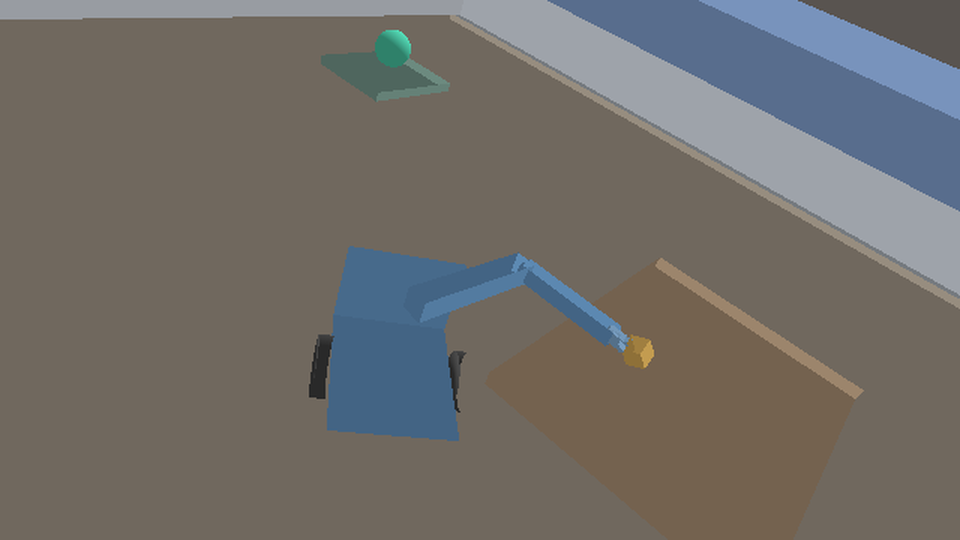
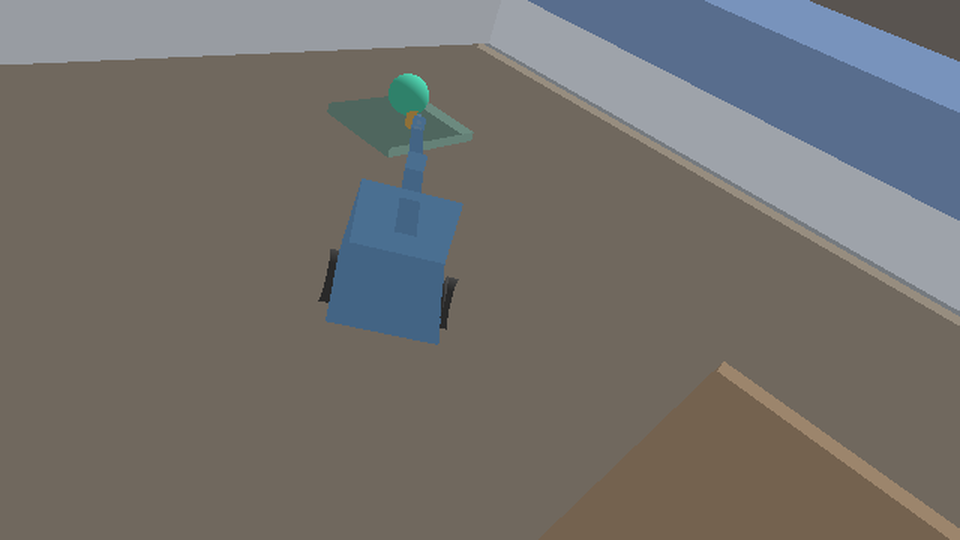
fix(rne_ai): damp mm_mobile arm servo sway with a stiff uncommanded hold
Base motion alone (a yaw turn, or a driving turn like the hero pick
approach) back-drove the mobile arm's uncommanded shoulder/elbow position
hold by up to ~0.30 rad: the base's yaw acceleration couples the outboard
arm chain's full inertia into the joints, and the shared 400/60 spring
constants (tuned for command tracking) are far too soft to resist it, so
the swinging arm bulldozed tabletop objects during driving approaches.

- mm_mobile's shoulder/elbow now switch to a near-critically-damped
  4000/127 position hold while a joint has no velocity command
  (`arm_motor_constants`); commanded moves, and the fixed-base robots
  (mm_minimal, mm_lift), keep the original 400/60 tracking dynamics they
  were tuned against, so no other trajectory changes. 8000 was measured
  WORSE (saturates the 200 max-force cap and rings against it).
- New regression test `mobile_base_motion_barely_back_drives_held_arm`
  bounds the held-arm back-drive under a pure yaw turn and a driving turn
  at 0.08 rad (measured ~0.034 rad, >2x headroom; baseline was ~0.30).
- Hero example: the approach used to park 0.18 m out and rely on the arm
  sway to sweep the gripper across the finger pocket; with the sway damped
  it now creeps to true pocket depth (HERO_APPROACH_HOLD_DISTANCE_M
  0.18 -> 0.07), grasping at step ~311 instead of ~609. Pre-grasp cube
  displacement drops 0.181 m -> 0.064 m and its regression bound tightens
  0.20 -> 0.13 (2x headroom); REACH_TARGET_M re-measured honestly to the
[…]

diff --git a/examples/32_lift_pick_place_hero/main.rs b/examples/32_lift_pick_place_hero/main.rs
@@ -58,7 +58,7 @@ const MIN_BASE_TRAVEL_M: f64 = 0.20;
 const MIN_EE_TRAVEL_M: f64 = 0.15;
 /// Kept at or under 0.05 m: `xtask hero-media-check` rejects a looser
 /// threshold outright (an anti-threshold-creep meta-guard). The deterministic
-/// rollout measures 0.010 m against [`REACH_TARGET_M`], so this has 5x
+/// rollout measures 0.002 m against [`REACH_TARGET_M`], so this has ample
 /// headroom; a trajectory change that shifts the endpoint should re-measure
 /// `REACH_TARGET_M` rather than loosen this bound.
 const MAX_FINAL_EE_TARGET_ERROR_M: f64 = 0.05;
@@ -109,12 +109,14 @@ const MIN_GRASPED_STEPS: usize = 12;
 /// this rewrite fixes: the cube used to fly ~1.5 m through the air into the
 /// gripper because it was a render-only keyframe, not a physics body. Now that
 /// it is a real dynamic obstacle, it must not move at all until the two-finger
-/// weld actually grasps it — except for small jostles from the same arm sway
-/// noted above (an early, non-simultaneous finger contact can nudge the cube
-/// a few centimeters across the — deliberately oversized, see
-/// `hero_pick_table`'s scene comment — pick table before the two-finger gate
-/// catches a clean grasp); this is a real contact nudge, not a teleport.
-const MAX_PRE_GRASP_OBJECT_DISPLACEMENT_M: f64 = 0.20;
+/// weld actually grasps it — except for the small real contact nudge of the
+/// closing fingers seating the cube into the pocket during the final creep
+/// (measured 0.064 m on the deterministic rollout; this bound keeps ~2x
+/// headroom). Before the mobile arm's stiff uncommanded position hold (see
+/// `MOBILE_ARM_HOLD_STIFFNESS` in `rne_ai::env::mobile_manipulator::sim`)
+/// the servo sway swept a single finger across the cube during the approach
+/// and shoved it up to 0.181 m; do not loosen this bound back toward that.
+const MAX_PRE_GRASP_OBJECT_DISPLACEMENT_M: f64 = 0.13;
 /// Maximum horizontal distance the task cube slides after release (m).
 /// Regression guard for the other half of the same bug: on release the old
 /// keyframed cube snapped/slid ~0.74 m back to the place target. A dropped
@@ -187,35 +189,37 @@ struct HeroSampleSegment {
 }
 
 // Dense sampling windows are sized from `--trace` output: the two-finger
-// grasp fires at policy step ~609, the observation-gated release fires at
-// ~1698 (the cube drops onto the tray and is fully settled by ~1850), and
-// `POLICY_STEPS` includes fallback budget past that (see
-// `HERO_CARRY_STEPS`).
+// grasp fires at policy step ~311 (the pocket-depth approach reaches the
+// cube much earlier now that the sway-damped arm no longer needs a long
+// hold-and-wait — see `HERO_APPROACH_HOLD_DISTANCE_M`), the
+// observation-gated release fires at ~1290 (the cube drops onto the tray
+// and is fully settled by ~1450), and `POLICY_STEPS` includes fallback
+// budget past that (see `HERO_CARRY_STEPS`).
 const HERO_SAMPLE_SEGMENTS: [HeroSampleSegment; 5] = [
     HeroSampleSegment {
         step_start: 0,
-        step_end: 500,
-        frame_count: 10,
+        step_end: 200,
+        frame_count: 6,
     },
     HeroSampleSegment {
-        step_start: 500,
-        step_end: 800,
+        step_start: 200,
+        step_end: 500,
         frame_count: 18,
     },
     HeroSampleSegment {
-        step_start: 800,
-        step_end: 1600,
+        step_start: 500,
+        step_end: 1150,
+        frame_count: 24,
+    },
+    HeroSampleSegment {
+        step_start: 1150,
+        step_end: 1500,
         frame_count: 26,
     },
     HeroSampleSegment {
-        step_start: 1600,
-        step_end: 1900,
-        frame_count: 26,
-    },
-    HeroSampleSegment {
-        step_start: 1900,
+        step_start: 1500,
         step_end: POLICY_STEPS,
-        frame_count: 20,
+        frame_count: 26,
     },
 ];
 
@@ -973,29 +977,30 @@ fn mix_digest_u64(digest: &mut u64, value: u64) {
 /// end-effector pose (from `--smoke` output) rather than [`PLACE_TARGET_M`]
 /// itself: the end-effector (the elbow pivot, not the gripper) never sits
 /// exactly at the place target even in a perfect run, and — per the note
-/// on [`MAX_FINAL_OBJECT_PLACE_ERROR_M`] — the arm's own sway means the
-/// exact final pose is this rollout's, not a value chosen in advance.
-const REACH_TARGET_M: Vec3 = Vec3::new(2.21, 0.40, -1.93);
+/// on [`MAX_FINAL_OBJECT_PLACE_ERROR_M`] — the exact final pose is this
+/// rollout's, not a value chosen in advance. Re-measured after the mobile
+/// arm's stiff uncommanded position hold (see `MOBILE_ARM_HOLD_STIFFNESS` in
+/// `rne_ai::env::mobile_manipulator::sim`) and the pocket-depth approach
+/// (see [`HERO_APPROACH_HOLD_DISTANCE_M`]) shifted the endpoint by ~0.05 m.
+const REACH_TARGET_M: Vec3 = Vec3::new(2.181, 0.400, -1.889);
 
-// Note on a real dynamics quirk this policy works around in several places
-// (see `HERO_APPROACH_HOLD_DISTANCE_M` and
-// `HERO_CARRY_STANDOFF_ARRIVAL_TOLERANCE_M`): the arm's shoulder/elbow
-// are held by a position spring/damper motor (see
-// `configure_arm_position_motors` in `rne_ai::env::mobile_manipulator::sim`)
-// that is never actuated by this policy, yet tracing a long straight-line
-// base approach at constant speed showed the actual joint angles swinging
-// by several tenths of a radian in a slow, non-decaying sway — present from
-// the very first driven step, i.e. excited by the base's own kinematic
-// motion rather than by turning or contact. Projected through the ~0.9 m
-// arm reach, that sway moves the gripper (and, once welded, the carried
-// object) by far more than the ~0.08 m finger pocket or the release
-// tolerance. An outer proportional velocity correction feeding the
-// shoulder/elbow back toward zero was tried and made the sway WORSE (it
-// interacts badly with the existing spring dynamics rather than damping
-// them), so instead of fighting the sway, both the approach and the carry
-// stop actively steering once close and let the sway itself carry the
-// gripper/object through the relevant contact or release gate — many
-// chances across sway cycles instead of one precise pass.
+// Note on a real dynamics quirk this policy HISTORICALLY worked around in
+// several places (see `HERO_APPROACH_HOLD_DISTANCE_M` and
+// `HERO_CARRY_STANDOFF_ARRIVAL_TOLERANCE_M`): the arm's shoulder/elbow are
+// held by a position spring/damper motor (see `configure_arm_position_motors`
+// in `rne_ai::env::mobile_manipulator::sim`) that is never actuated by this
+// policy, and at the old shared 400/60 spring constants the base's own motion
+// back-drove the held joints by several tenths of a radian in a slow,
+// non-decaying sway. Projected through the ~0.9 m arm reach, that sway moved
+// the gripper (and, once welded, the carried object) by far more than the
+// ~0.08 m finger pocket or the release tolerance, so the approach and carry
+// were built to stop steering early and let the sway itself carry the
+// gripper/object through the relevant gate. The sway is now damped at its
+// source — the mobile arm switches to a much stiffer position hold while
+// uncommanded (see `MOBILE_ARM_HOLD_STIFFNESS`), holding the joints to ~0.03
+// rad under the same maneuvers — so the approach drives to true pocket depth
+// (the firm gripper no longer sweeps across the cube) while the carry keeps
+// its stop-and-settle structure, which remains correct with a steadier arm.
 
 /// Base forward speed cap while approaching the pick object (m/s).
 const HERO_APPROACH_SPEED_M_S: f64 = 0.15;
@@ -1014,21 +1019,21 @@ const HERO_CLOSE_GRIPPER_DISTANCE_M: f64 = 0.12;
 /// Gripper-mount-to-object distance (m) below which the approach stops
 /// driving the base forward and just holds position while the fingers close.
 ///
-/// Wider than [`HERO_CLOSE_GRIPPER_DISTANCE_M`] on purpose: the arm's
-/// position-held shoulder/elbow servo does not sit perfectly still even with
-/// zero commanded velocity and a stationary base — it rings slowly (an
-/// underdamped several-tenths-of-a-radian sway measured while tracing a long
-/// straight-line approach at constant speed, present from the very first
-/// driven step, i.e. excited by the base's own kinematic translation, not by
-/// any rotation or contact event). That sway is large enough, relative to
-/// the ~0.08 m finger pocket, that a single fly-by pass through the object's
-/// position is a coin flip for whether both fingers happen to be
-/// symmetrically placed at that instant. Stopping the base with the gripper
-/// merely NEAR (not already touching) the object, then holding there for the
-/// rest of the approach budget, lets that same sway carry the gripper back
-/// and forth across the object's position many times while the fingers
-/// continuously re-attempt closing — many chances instead of one.
-const HERO_APPROACH_HOLD_DISTANCE_M: f64 = 0.18;
+/// Narrower than [`HERO_CLOSE_GRIPPER_DISTANCE_M`]: the mount box's half-depth
+/// (0.03 m) plus the 0.07 m cube's half-width is ~0.065 m, so holding at 0.07
+/// parks the cube fully inside the finger pocket with its near face at the
+/// mount, and the fingers (already closing since the 0.12 m gate) finish the
+/// two-sided pinch against a stationary target. This USED to be 0.18 m — the
+/// uncommanded shoulder/elbow servo swayed by several tenths of a radian under
+/// the base's own motion, so the approach parked the gripper NEAR the cube and
+/// let the sway sweep it back and forth across the pocket, taking many chances
+/// at a symmetric two-finger close instead of one. Now that the mobile arm's
+/// position hold is stiff while uncommanded (see `MOBILE_ARM_HOLD_STIFFNESS`
+/// in `rne_ai::env::mobile_manipulator::sim`), the gripper genuinely stays put
+/// (±0.02 rad traced over the whole approach), so parking 0.18 m out means the
+/// fingers never reach the cube at all; the firm arm makes the straight
+/// nose-on creep to pocket depth deterministic instead of a bulldozing risk.
+const HERO_APPROACH_HOLD_DISTANCE_M: f64 = 0.07;
 /// Parallel-gripper opening metric at rest; once closing has started (metric
 /// below this), keep issuing close even if a contact transient nudges the
 /// mount-to-object distance back above [`HERO_CLOSE_GRIPPER_DISTANCE_M`].

diff --git a/crates/rne_ai/src/env/mobile_manipulator/sim.rs b/crates/rne_ai/src/env/mobile_manipulator/sim.rs
@@ -311,12 +311,34 @@ const LIFT_TARGET_MAX_M: f64 = 0.5;
 /// Constraint solver iterations for the lift robot's world. Its tall jointed chain
 /// swings chaotically at Rapier's default (4); 16 holds the arm stable.
 const LIFT_SOLVER_ITERATIONS: usize = 16;
-/// Position stiffness/damping for the lift robot's arm revolute joints. A plain
+/// Position stiffness/damping for the arm revolute joints while a velocity command
+/// is integrating (all robots), and at all times on the fixed-base robots. A plain
 /// velocity motor (gain 1.0) is too weak to move or hold the heavy arm, so the arm
 /// joints are position (spring-damper) motors that drive to a commanded angle and
-/// hold it. Stable now that the column geometry settles the arm straight.
+/// hold it. Stable now that the column geometry settles the arm straight. On the
+/// mobile robot an UNCOMMANDED joint switches to the much stiffer
+/// [`MOBILE_ARM_HOLD_STIFFNESS`] hold instead (see `arm_motor_constants`).
 const ARM_MOTOR_STIFFNESS: f64 = 400.0;
 const ARM_MOTOR_DAMPING: f64 = 60.0;
+/// Extra-stiff position hold for the MOBILE robot's shoulder/elbow while a joint
+/// has no velocity command (`mm_mobile` only; see `arm_hold_motor_constants`).
+/// At the tracking stiffness of 400 a base yaw turn back-drives the held arm by
+/// up to ~0.30 rad (measured by `mobile_base_motion_barely_back_drives_held_arm`):
+/// like the fingers (see [`FINGER_MOTOR_STIFFNESS`]), the motor spring's torque
+/// scales with the joint's effective angular inertia, and the base's yaw
+/// acceleration couples the full inertia of the outboard arm chain into the
+/// joint, so 400 in acceleration units is far too soft to resist it — the
+/// swinging arm bulldozed tabletop objects during driving approaches. 4000
+/// holds the same disturbance to under 0.04 rad; pushing further (8000) makes
+/// the sway WORSE because the restoring torque saturates the
+/// [`ARM_MOTOR_MAX_FORCE`] cap and the overdriven spring rings against it.
+/// Applied only at zero command so every velocity-commanded trajectory (and
+/// every fixed-base robot, which has no base motion to back-drive its arm)
+/// keeps the original 400/60 tracking dynamics it was tuned against.
+const MOBILE_ARM_HOLD_STIFFNESS: f64 = 4000.0;
+/// Damping for [`MOBILE_ARM_HOLD_STIFFNESS`] (≈ critical in acceleration
+/// units: 2·√4000 ≈ 126).
+const MOBILE_ARM_HOLD_DAMPING: f64 = 127.0;
 /// Extra stiffness when writing absolute lift-arm joint targets (direct IK hold).
 const ARM_DIRECT_TARGET_STIFFNESS: f64 = 1200.0;
 const ARM_DIRECT_TARGET_DAMPING: f64 = 100.0;
@@ -1493,8 +1515,9 @@ impl MobileManipulatorSim {
                     let is_finger =
                         joint_name == "left_finger_joint" || joint_name == "right_finger_joint";
                     if !is_finger {
-                        motor.stiffness = ARM_MOTOR_STIFFNESS;
-                        motor.gain = ARM_MOTOR_DAMPING;
+                        let (stiffness, damping) = arm_motor_constants(self.mobile_base, velocity);
+                        motor.stiffness = stiffness;
+                        motor.gain = damping;
                     }
                     let mut target = (motor.target_position + velocity * dt_s)
                         .clamp(-ARM_TARGET_LIMIT_RAD, ARM_TARGET_LIMIT_RAD);
@@ -1671,8 +1694,11 @@ impl MobileManipulatorSim {
             let Some(mut motor) = self.world.get_mut::<rne_physics::JointMotor>(joint.link) else {
                 continue;
             };
-            motor.stiffness = ARM_MOTOR_STIFFNESS;
-            motor.gain = ARM_MOTOR_DAMPING;
+            // Initial state is an uncommanded hold; `apply_action` re-selects the
+            // constants every step from the live per-joint command.
+            let (stiffness, damping) = arm_motor_constants(self.mobile_base, 0.0);
+            motor.stiffness = stiffness;
+            motor.gain = damping;
             motor.target_position = 0.0;
             motor.max_force = ARM_MOTOR_MAX_FORCE;
         }
@@ -1857,6 +1883,20 @@ fn joint_sample(world: &World, joint: &ActuatedJoint) -> JointSample {
 
 fn z_rotation_rad(rotation: Quat) -> f64 {
     2.0 * f64::atan2(rotation.z, rotation.w)
+}
+
+/// Selects the position-motor spring constants for a shoulder/elbow joint from the
+/// robot kind and the joint's current velocity command: the mobile robot's arm gets
+/// the extra-stiff [`MOBILE_ARM_HOLD_STIFFNESS`] hold while uncommanded (so base
+/// motion cannot back-drive the held pose — see that constant's doc comment), and
+/// every commanded move (and every fixed-base robot, whose arm nothing back-drives)
+/// keeps the original [`ARM_MOTOR_STIFFNESS`] tracking dynamics.
+fn arm_motor_constants(mobile_base: bool, velocity_command: f64) -> (f64, f64) {
+    if mobile_base && velocity_command == 0.0 {
+        (MOBILE_ARM_HOLD_STIFFNESS, MOBILE_ARM_HOLD_DAMPING)
+    } else {
+        (ARM_MOTOR_STIFFNESS, ARM_MOTOR_DAMPING)
+    }
 }
 
 /// Cubic ease-in/ease-out over `[0, 1]`, clamped at the ends. Used to animate the
@@ -2243,6 +2283,73 @@ mod tests {
         assert!(
             yaw_end > yaw_start + 0.2,
             "positive twist yaw rate increases observed base yaw in sim, start={yaw_start:.3} end={yaw_end:.3}"
+        );
+    }
+
+    /// Runs `steps` ticks of the given base-only action (zero arm command) on a
+    /// settled `mm_mobile` and returns the largest deviation of the shoulder or
+    /// elbow joint from its settled hold angle (rad).
+    fn held_arm_max_deviation_rad(
+        action_for_step: impl Fn(u64) -> MobileManipulatorAction,
+        steps: u64,
+    ) -> f64 {
+        let mut sim = MobileManipulatorSim::new_mm_mobile();
+        for _ in 0..80 {
+            sim.step(MobileManipulatorAction::default());
+        }
+        let settled = sim.observe();
+        let mut max_deviation_rad = 0.0_f64;
+        for step in 0..steps {
+            let obs = sim.step(action_for_step(step));
+            max_deviation_rad = max_deviation_rad
+                .max((obs.shoulder_position_rad - settled.shoulder_position_rad).abs())
+                .max((obs.elbow_position_rad - settled.elbow_position_rad).abs());
+        }
+        max_deviation_rad
+    }
+
+    /// Guards the mobile arm's stiff position hold (see
+    /// [`MOBILE_ARM_HOLD_STIFFNESS`]): base motion alone must not back-drive the
+    /// uncommanded shoulder/elbow. At the old shared 400/60 spring constants a
+    /// pure yaw turn back-drove the held joints by up to ~0.30 rad (and a
+    /// driving turn by ~0.15 rad), and the swinging arm bulldozed tabletop
+    /// objects during approaches (see example 32's
+    /// `MAX_PRE_GRASP_OBJECT_DISPLACEMENT_M`). The stiff hold measures ~0.034
+    /// rad on both maneuvers; 0.08 leaves >2x headroom without letting the old
+    /// failure mode anywhere near back in.
+    #[test]
+    fn mobile_base_motion_barely_back_drives_held_arm() {
+        const MAX_HELD_ARM_DEVIATION_RAD: f64 = 0.08;
+
+        // Pure in-place yaw turn.
+        let pure_yaw_deviation_rad = held_arm_max_deviation_rad(
+            |_| MobileManipulatorAction {
+                left_wheel_velocity_rad_s: -1.0,
+                right_wheel_velocity_rad_s: 1.0,
+                ..MobileManipulatorAction::default()
+            },
+            240,
+        );
+        assert!(
+            pure_yaw_deviation_rad < MAX_HELD_ARM_DEVIATION_RAD,
+            "base yaw turn back-drove the held arm: max deviation {pure_yaw_deviation_rad:.3} rad"
+        );
+
+        // Forward drive with a sustained turn, like the hero pick approach.
+        let drive_turn_deviation_rad = held_arm_max_deviation_rad(
+            |_| {
+                let (left, right) = crate::mm_mobile_twist_to_wheel_velocities(0.4, 0.6);
+                MobileManipulatorAction {
+                    left_wheel_velocity_rad_s: left.clamp(-3.0, 3.0),
+                    right_wheel_velocity_rad_s: right.clamp(-3.0, 3.0),
+                    ..MobileManipulatorAction::default()
+                }
+            },
+            240,
+        );
+        assert!(
+            drive_turn_deviation_rad < MAX_HELD_ARM_DEVIATION_RAD,
+            "driving turn back-drove the held arm: max deviation {drive_turn_deviation_rad:.3} rad"
         );
     }
 

diff --git a/CHANGELOG.md b/CHANGELOG.md
@@ -6,6 +6,18 @@ All notable changes to Robot Native Engine are documented in this file.
 
 ### Fixed
 
+- **`mm_mobile` arm servo sway**: base motion alone (a yaw turn, or a driving
+  turn like the hero pick approach) back-drove the uncommanded shoulder/elbow
+  position hold by up to ~0.30 rad — the base's yaw acceleration couples the
+  outboard arm chain's full inertia into the joints, and the shared 400/60
+  spring constants (tuned for command tracking) are far too soft to resist it,
+  so the swinging arm bulldozed tabletop objects during driving approaches.
+  The mobile robot's shoulder/elbow now switch to a near-critically-damped
+  4000/127 position hold while uncommanded (velocity-commanded moves, and the
+  fixed-base robots, keep the original tracking dynamics), cutting the
+  back-drive to ~0.034 rad. The hero rollout's pre-grasp cube nudge and its
+  regression bound tighten accordingly.
+
 - **README hero capture**: the hero GIF's task cube was a render-only decoration
   keyframe-lerped into the gripper at a hardcoded step — it visibly flew ~1.5 m
   through the air into a gripper that never approached it, and slid ~0.74 m back